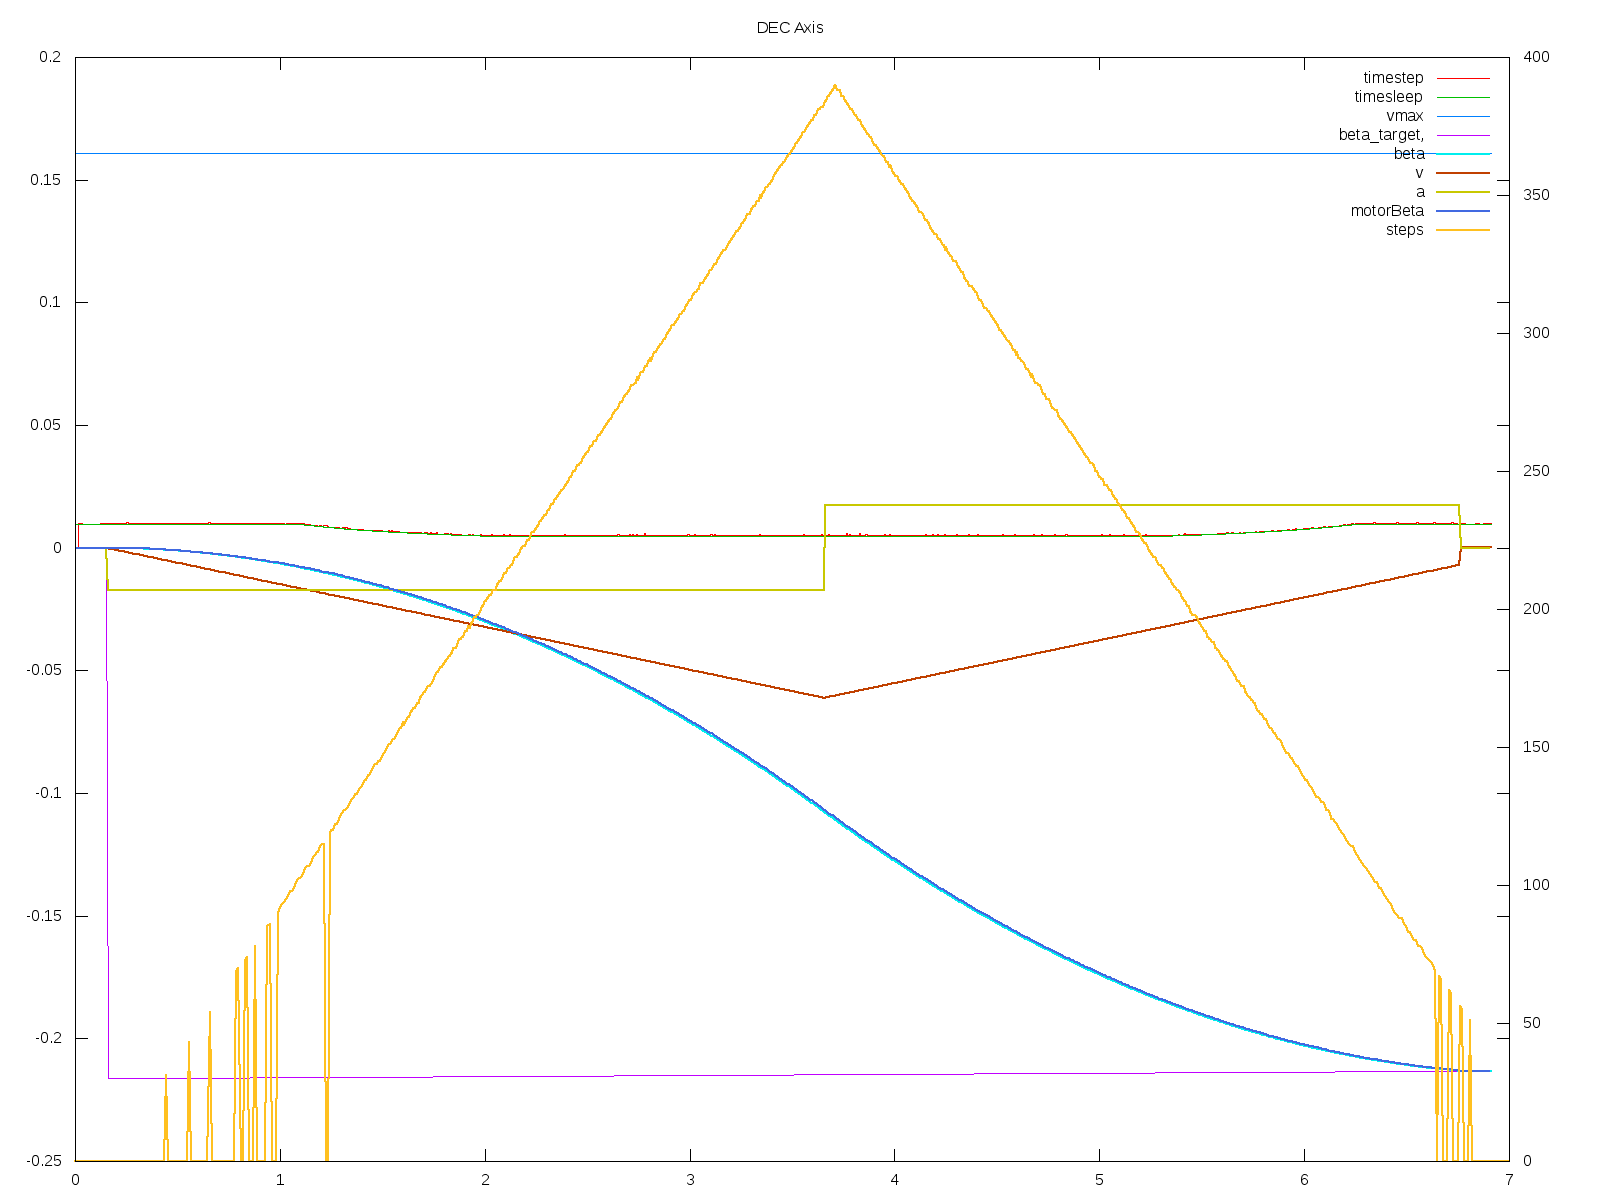
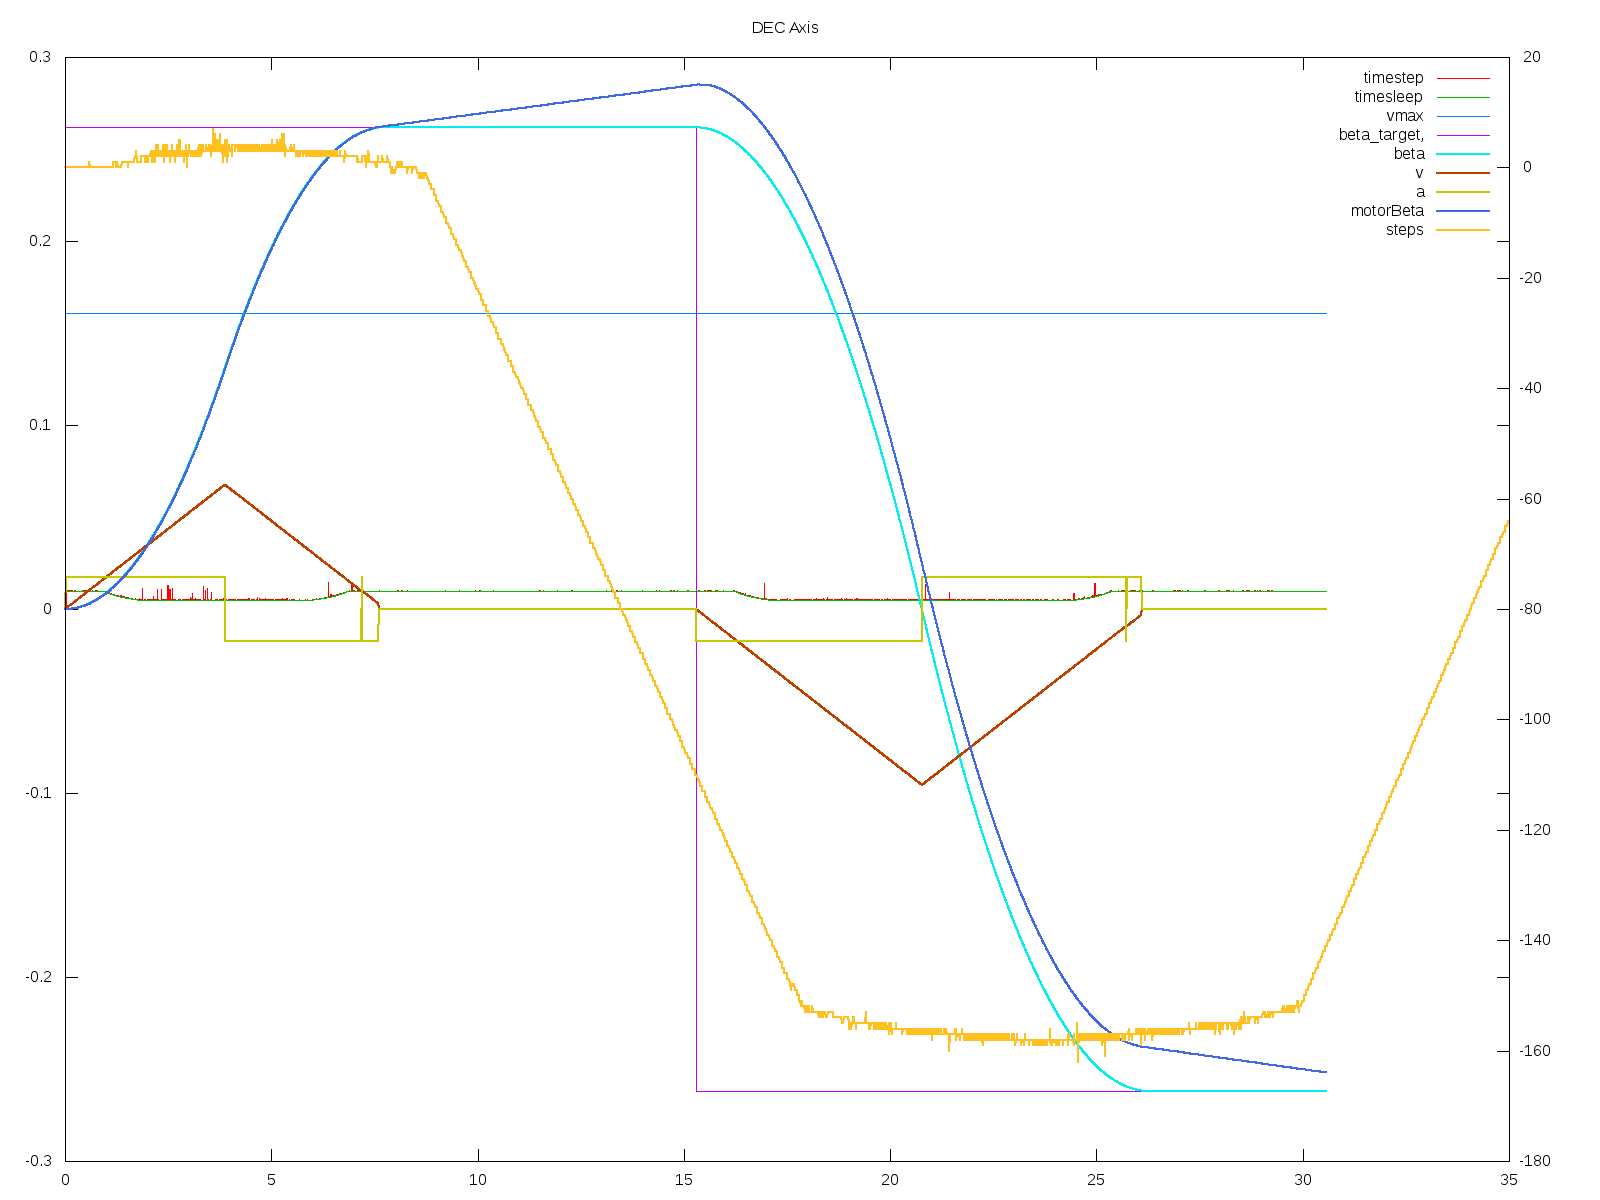
PWM fails...

diff --git a/ramps.py b/ramps.py
@@ -199,7 +199,7 @@ class AxisDriver(axis):
 		self.PIN=PIN
 		self.DIR_PIN=DIR_PIN
 		cb1 = self.pi.callback(self.PIN, pigpio.RISING_EDGE, self.stepCounter)
-		#cb2 = self.pi.callback(self.PIN, pigpio.FALLING_EDGE, self.falling)
+		cb2 = self.pi.callback(self.PIN, pigpio.FALLING_EDGE, self.falling)
 		self.stepsPerRevolution=gear['motorStepsRevolution']*gear['microstep']*gear['reducer']
 		self.corona=gear['corona']
 		self.plate=gear['pinion']
@@ -219,8 +219,7 @@ class AxisDriver(axis):
 		self.dire=1
 		self.pi.write(self.DIR_PIN, self.dire>0)
 		self.freq=0
-		self.discarted=0
-		self.discartFlag=False
+		self.updatePWM=False
 		self.lock = threading.Lock()
 		self.stepQueue()
 		print "StepsPerRev",self.stepsPerRevolution \
@@ -242,9 +241,7 @@ class AxisDriver(axis):
 
 		if self.log:
 			motorBeta=float(self.motorBeta)*self.minMotorStep
-			#discarted=float(self.discarted)*self.minMotorStep
-			self.saveDebug(self.freq,motorBeta)
-			#self.saveDebug(self.freq*self.dire,motorBeta)
+			self.saveDebug(self.stepTarget-self.motorBeta,motorBeta)
 
 		if Isteps==0:
 			return		
@@ -259,9 +256,10 @@ class AxisDriver(axis):
 			self.stepTarget=self.stepTarget+Isteps
 
 	def falling(self,gpio, level, tick):
-		if self.discartFlag:
+		if self.updatePWM==True:
 			with self.lock:
-				self.pi.hardware_PWM(self.PIN,0,self.pulseDuty*1000000)
+				self.pi.hardware_PWM(self.PIN,self.freq,self.pulseDuty*1000000)
+				self.updatePWM==False
 
 	def stepCounter(self,gpio, level, tick):
      	    with self.lock:
@@ -274,21 +272,6 @@ class AxisDriver(axis):
 		self.motorBeta=self.motorBeta+1*dire
 
 
-		if self.discartFlag:
-			self.discarted=self.discarted+1*dire
-			print   self.name, "DISCARTED", \
-				ephem.degrees(self.discarted*self.minMotorStep),\
-				self.discarted
-
-		#Arrived. Stop PWM
-	    	if abs(self.stepTarget-self.motorBeta) == 0:
-			#self.freq=0
-			self.discartFlag=True
-			#stop PWM at falling edge
-
-
-
-
 	@threaded
 	def stepQueue(self):
 	  freq=0
@@ -297,32 +280,36 @@ class AxisDriver(axis):
 		with self.lock:
 		   delta=self.stepTarget-self.motorBeta
 		   if abs(delta) != 0:
-			#calculate direction of motion
-			if self.dire*delta<0:
-				self.dire=math.copysign(1,delta)
-				self.pi.write(self.DIR_PIN, self.dire>0)
-
+			betaError=ephem.degrees(self.beta-float(self.motorBeta)*self.minMotorStep)
+			#print betaError
 			if self.v!=0:
 				ffreq=abs(self.v)/self.minMotorStep+freqRest
 				freq=round(ffreq)
 				freqRest=ffreq-freq
 			else:
 				#if self.v==0 hold the last freq value
+				#freq=self.freq
 				pass
 			if freq  >=self.maxPPS:
 				freq=self.maxPPS
+
+			if self.freq==0 and freq!=0:
+				self.pi.hardware_PWM(self.PIN,freq,self.pulseDuty*1000000)
+
 			self.freq=freq
-			self.pi.hardware_PWM(self.PIN,self.freq,self.pulseDuty*1000000)
-		   	self.discartFlag=False
 		   else:
 			self.freq=0
-			self.discartFlag=True
-			self.pi.hardware_PWM(self.PIN,0,self.pulseDuty*1000000)
+
+		   self.updatePWM=True
+
+		time.sleep(self.pulseWidth)
+		'''
 		if self.freq!=0:
 			#time.sleep(self.freq/2)
 			time.sleep(self.pulseWidth)
 		else:
 			time.sleep(self.timestepMax)
+		'''
 	  print "STEPS QUEUE END"
 	  self.pi.hardware_PWM(self.PIN,0,0)
 
@@ -398,10 +385,18 @@ class mount:
 if __name__ == '__main__':
 	a=ephem.degrees('01:00:00')
 	m=mount(a)
-	vRA=ephem.degrees('00:00:01')
+	vRA=ephem.degrees('00:00:00')
 	m.trackSpeed(vRA,0)
-	RA=ephem.hours('02:00:00')
+	RA=ephem.hours('03:00:00')
 	DEC=ephem.degrees('15:00:00')
+	m.slew(RA,DEC)
+	t=0
+	while t<15:
+		t=t+m.axis1.timestep
+		time.sleep(m.axis1.timestep)
+		#m.coords()
+	RA=ephem.hours('01:00:00')
+	DEC=ephem.degrees('-15:00:00')
 	m.slew(RA,DEC)
 	t=0
 	while t<15:
